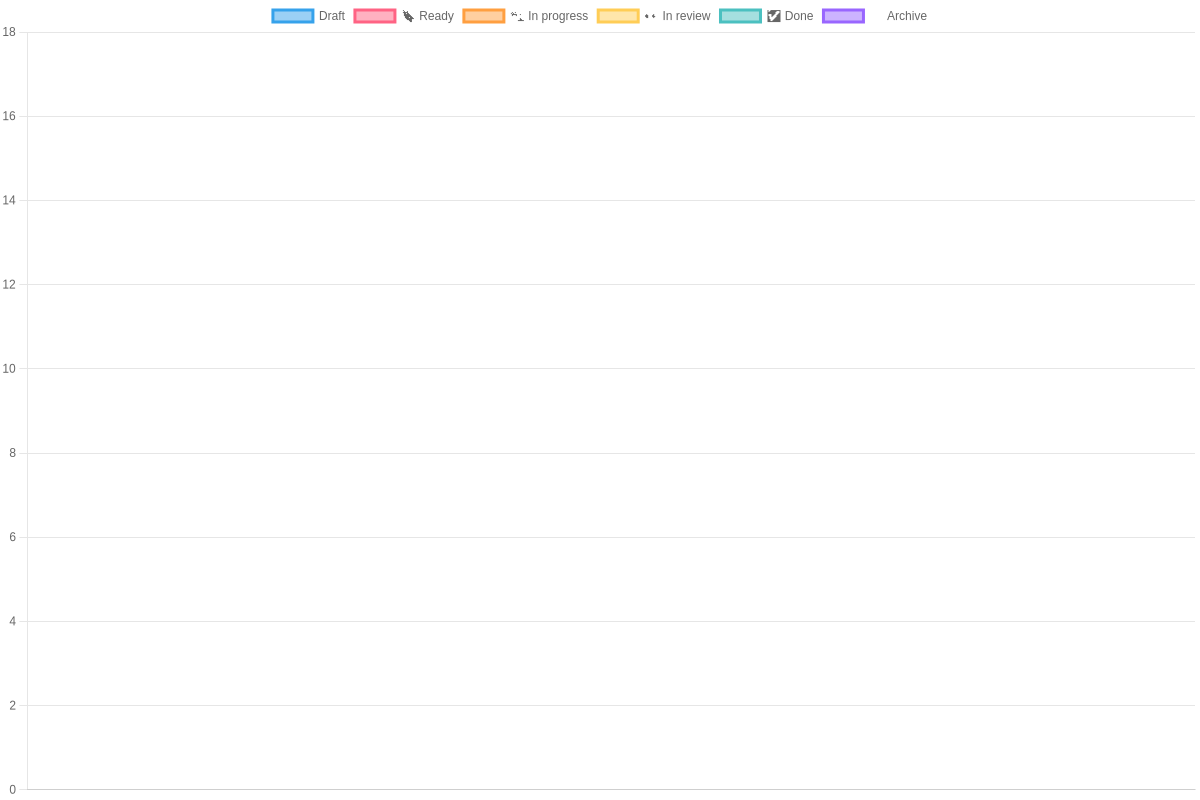
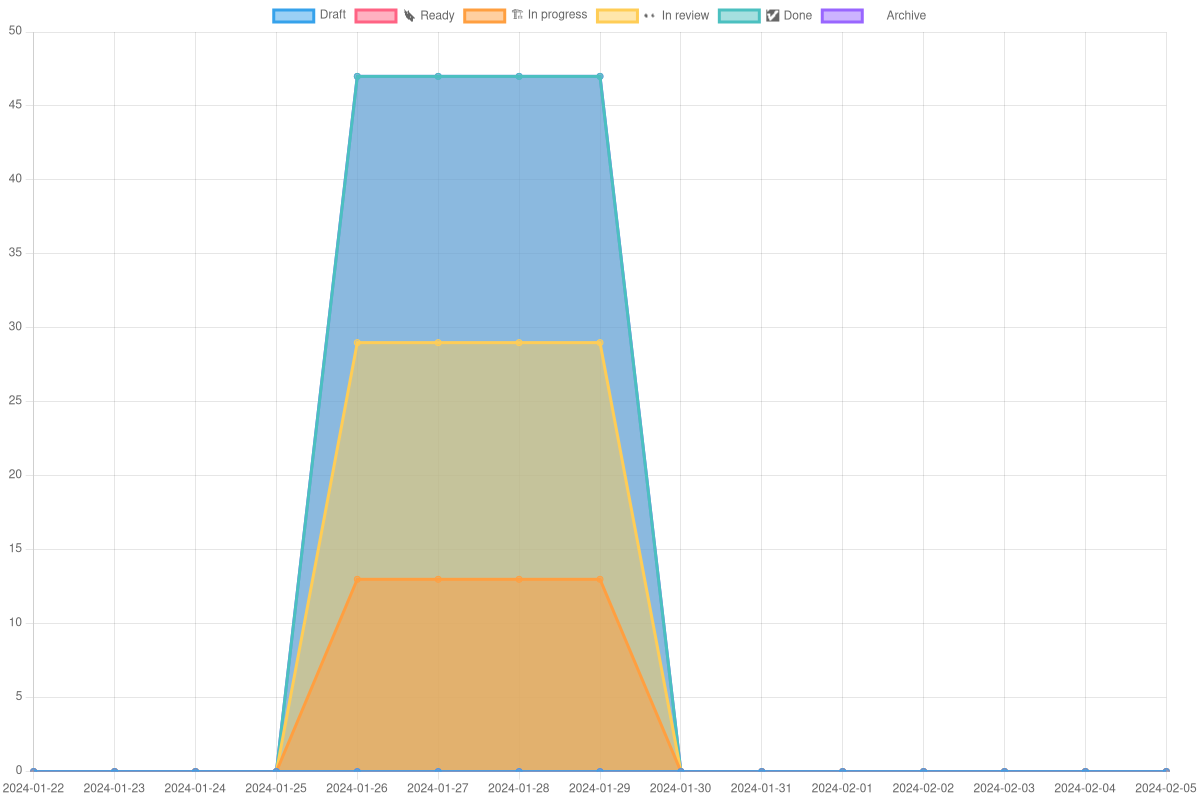
Fix wrong remove

diff --git a/src/burn.ts b/src/burn.ts
@@ -7,7 +7,7 @@ export const updateBurnDown = async (runId: string, stati: Field[], iteration: I
     // Store new Burn Down Data
     writeFile(`stats/${name}/burn_down_data/`, `${team}_${runId}`, "json", JSON.stringify(newDatasets))
     // Render Burn Down Chart
-    const labels =  []
+    const labels = []
     const coreBurnDatasets: GraphDataset[] = []
     for (const status of stati) {
       coreBurnDatasets.push({
@@ -17,12 +17,12 @@ export const updateBurnDown = async (runId: string, stati: Field[], iteration: I
     }
     for (let i = 0; i <= iteration.duration; i++) {
       const label = asDate(iteration.startDate, i).toISOString().slice(0, 10)
+      labels.push(label)
       const loadedData: GraphDataset[] = readJsonFile(`stats/${name}/burn_down_data/`, `${team}_${label}`)
       coreBurnDatasets.forEach((dataset, index) => {
         dataset.data.push(loadedData?.at(index)?.data?.at(0) ?? 0)
       })
     }
-    console.log(labels)
     await render(labels, coreBurnDatasets, {
       type: "line",
       path: `stats/${name}/`,
